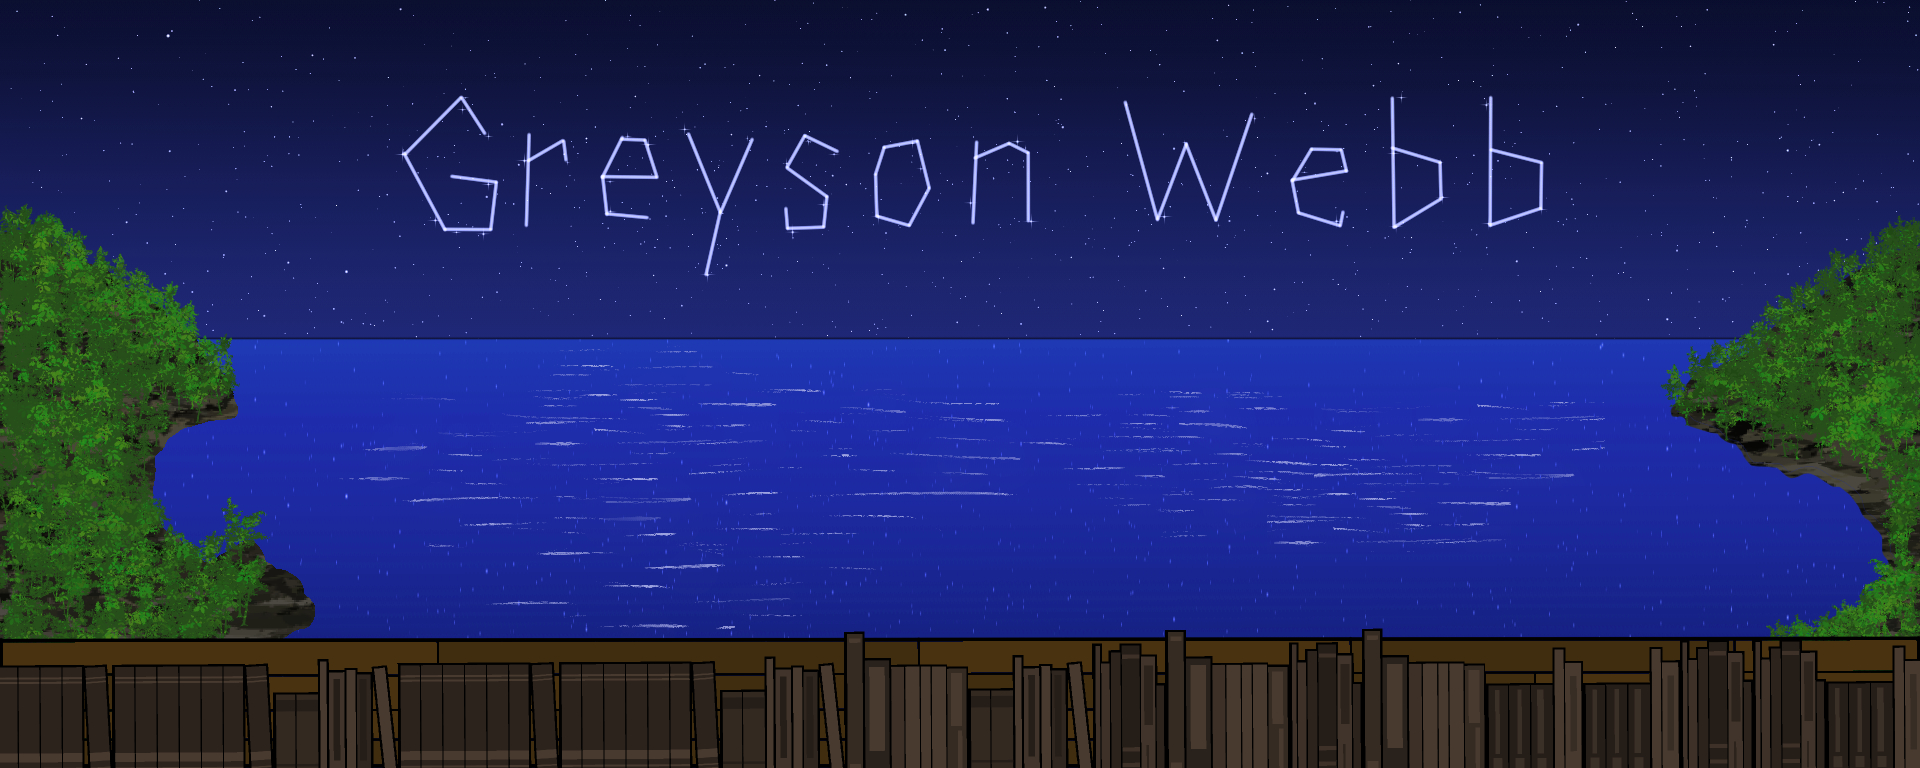
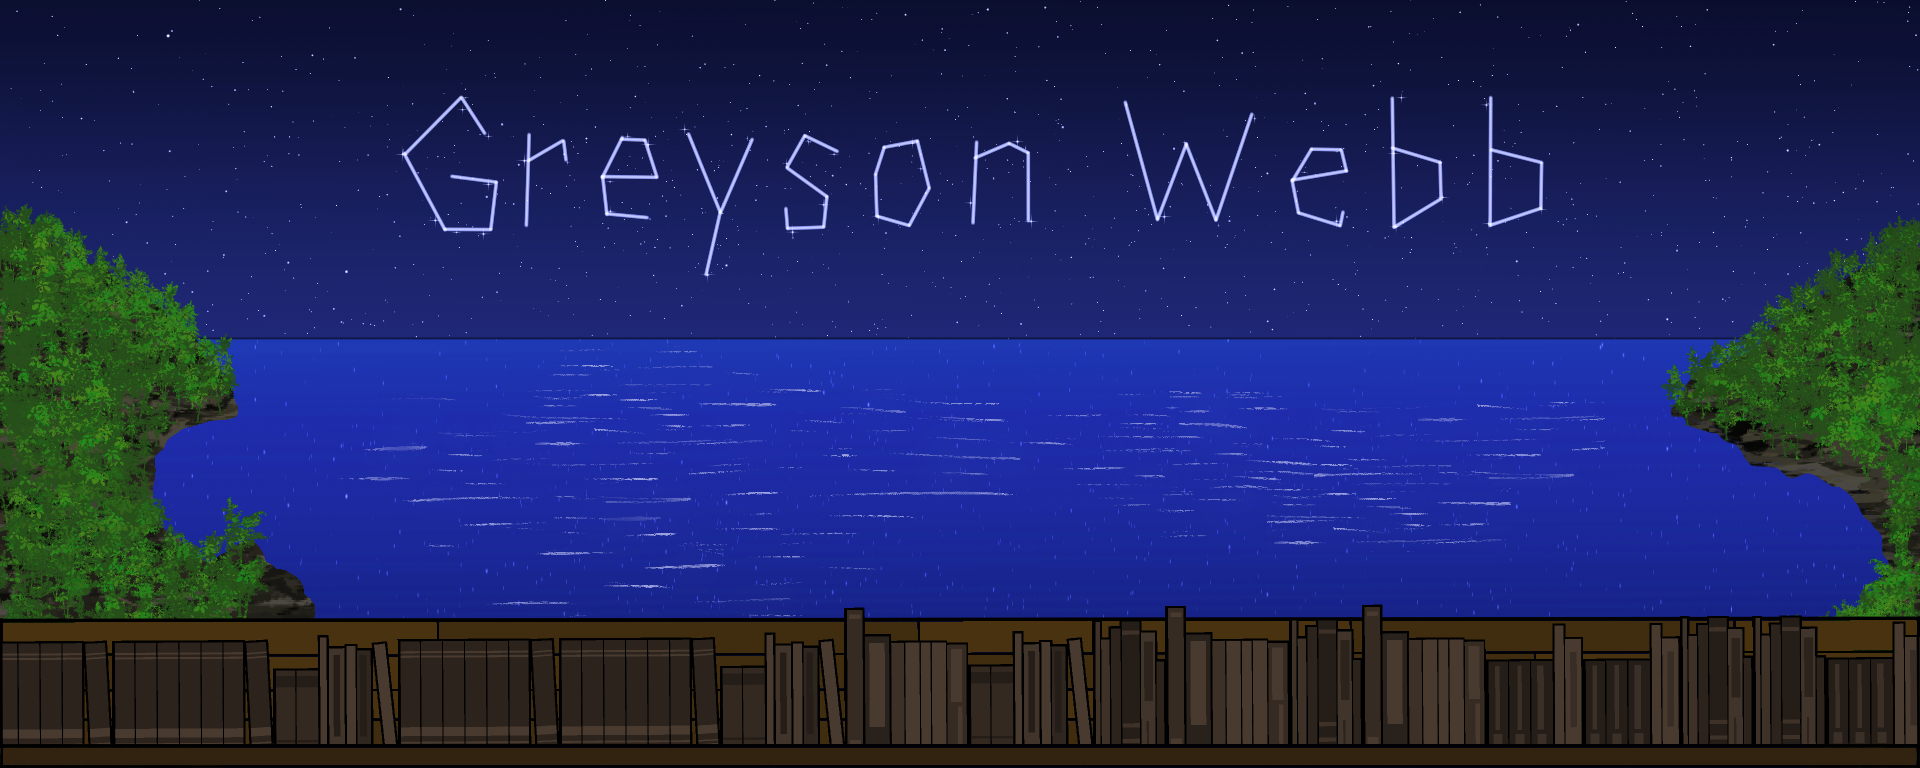
structure backgrounds and nav imgs

Changed region(s): [[0.0, 0.7812, 1.0, 1.0]]

diff --git a/index.html b/index.html
@@ -4,20 +4,27 @@
     <meta charset="UTF-8">
     <meta http-equiv="X-UA-Compatible" content="IE=edge">
     <meta name="viewport" content="width=device-width, initial-scale=1.0">
-    <title>Document</title>
+    <title>Greyson Webb</title>
     <link rel="stylesheet" href="styles.css">
 </head>
 <body>
     <header>
-      <div class="header-bg">
-        <ul>
-          <li><a href="#">About Me</a></li>
-          <li><a href="#">Projects</a></li>
-          <li><a href="#">Blog</a></li>
-          <li><a href="#">Music</a></li>
-        </ul>
-      </div>
+      <ul class="navbar">
+        <li class="about-me-button"><a href="#"><img src="img/nav-buttons/about-me-boat-button.png" alt="About Me button that looks like a boat"></a></li>
+        <li class="projects-button"><a href="#"><img src="img/nav-buttons/projects-boat-button.png" alt="Projects button that looks like a boat"></a></li>
+        <li class="blog-button"><a href="#"><img src="img/nav-buttons/blog-boat-button.png" alt="Blog button that looks like a boat"></a></li>
+        <li class="music-and-art-button"><a href="#"><img src="img/nav-buttons/Music-and-Art-boat-button.png" alt="Music and Art button that looks like a boat"></a></li>
+      </ul>
+      
     </header>
-        
+
+    <div class="content">
+
+    
+    </div>
+
+    <footer>
+
+    </footer>
 </body>
 </html>

diff --git a/styles.css b/styles.css
@@ -1,13 +1,66 @@
+* {
+  box-sizing: border-box;
+  margin: 0;
+  padding: 0;
+}
+
 body {
-    background-color: rgb(13,20,35);
-    font-family: Helvetica;
-  }
+  background-image: url("img/GW-body-Background.jpg");
+  background-size: contain;
+  background-position: center;
+  background-color: rgb(13,20,35);
+  font-family: Helvetica;
+}
   
-.header-bg {
-    background-image: url("img/GW-Header-BG.jpg"); 
-    background-size: cover; 
-    background-position: center;
-    padding: 17%
-  }
-  
-  
+header {
+  display: flex;
+  justify-content: center;
+  align-items: center;
+  background-image: url("img/GW-Header-BG.jpg"); 
+  background-size: cover; 
+  background-position: bottom;
+  max-width: 1920px;
+  height: 100%;
+  width: 100%;
+  height: 40vw;
+  margin: 0 auto;
+}
+
+.navbar {
+  display: flex;
+  height: 12.6vw;
+  width: 73vw;
+  align-items: center;
+  list-style: none;
+  padding: 0px;
+  margin-top: 100px;
+}
+
+/*
+.about-me-button,
+.projects-button,
+.blog-button,
+.music-and-art-button {
+
+}
+*/
+
+.about-me-button,
+.blog-button {
+  align-self: flex-start;
+}
+
+.projects-button,
+.music-and-art-button {
+  align-self: flex-end;
+}
+
+
+.navbar li a img {
+  width: 17.55vw;
+}
+
+
+.content {
+  height: 75vw;
+}
